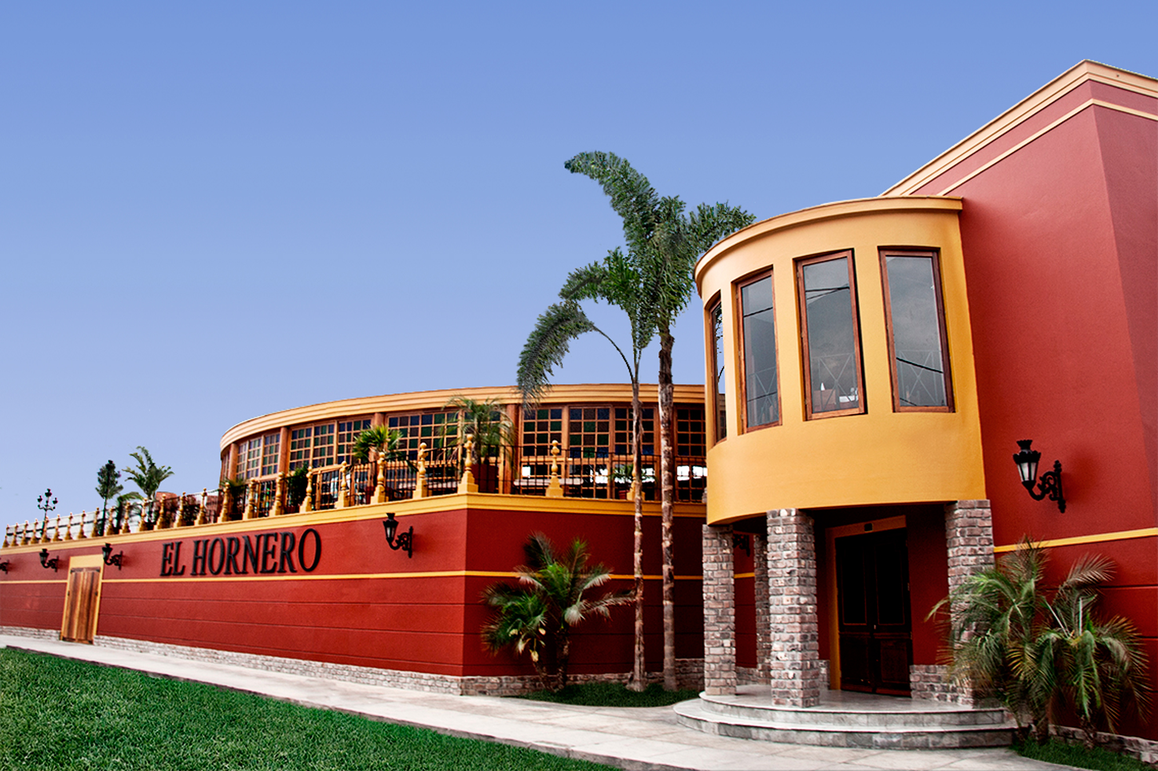
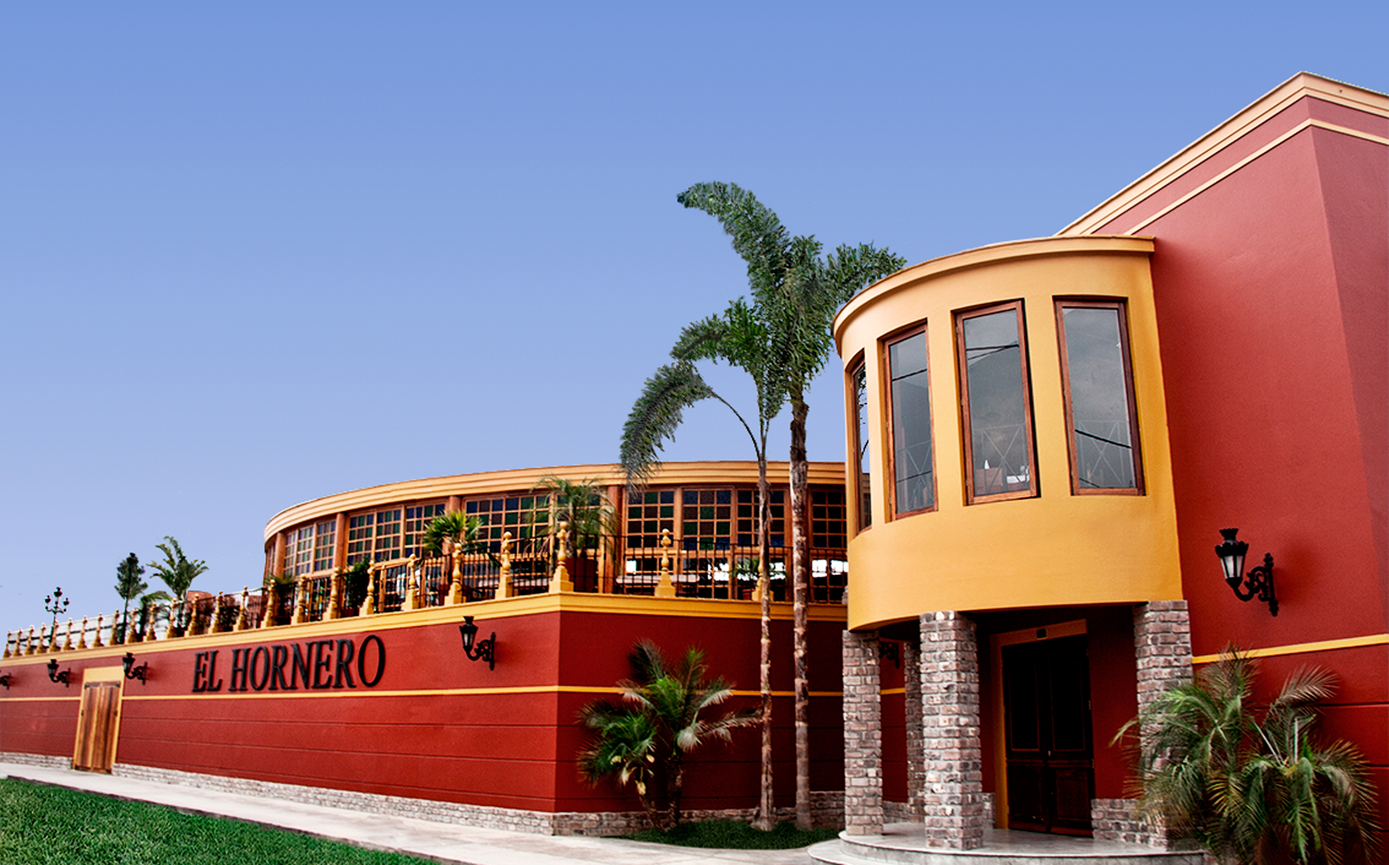
aa

diff --git a/css/main.css b/css/main.css
@@ -1272,7 +1272,7 @@ footer .content-mencion a:hover{
 }
 .chorrillosback{
     background-image: url("../img/fachada_chorrillos.jpg");
-    background-position: center center;
+    background-position: center bottom;
     /*background-position: center bottom 50%;*/
     background-size: cover;
 }
@@ -1365,7 +1365,7 @@ footer .content-mencion a:hover{
 .phone-reserve{
     font-family: 'Montserrat-Bold';
     color: #77251B;
-    font-size: 14px;
+    font-size: 16px;
     margin-bottom: 6px;
 }
 
@@ -1383,7 +1383,7 @@ footer .content-mencion a:hover{
 .address-reserve{
     font-family: 'Montserrat-Light';
     color: #6A6A6A;
-    font-size: 12px;
+    font-size: 14px;
 }
 
 .border-top{

diff --git a/reserve.php b/reserve.php
@@ -160,12 +160,12 @@
 					</a>	
 					<div class="info-reserve">
 						<div class="phone-reserve">
-							<a href="tel:01 530 7305">
-							<img src="img/adorno/tel_reservas.png" alt="">	01 530 7305
+							<a href="tel:01 291 6848">
+							<img src="img/adorno/tel_reservas.png" alt="">	01 291 6848
 							</a>
 						</div>
 						<div class="address-reserve">
-							Av. Paseo de la República 6500, Barranco
+							Av. Dos de Mayo 758, San Isidro
 						</div>
 					</div>
 				</div>

diff --git a/footer.php b/footer.php
@@ -137,7 +137,7 @@
 					
 					
 						<div class="font-Montserrat-Light text-center visible-xs visible-sm" style="width: 50%;margin:0 auto;margin-top: 2em;border-top: .5px solid white;padding-top: 1em;">
-							SIGUENOS EN : 
+							SÍGUENOS EN : 
 							<br>
 							<a href="" style="margin-right: 1em;">
 								
